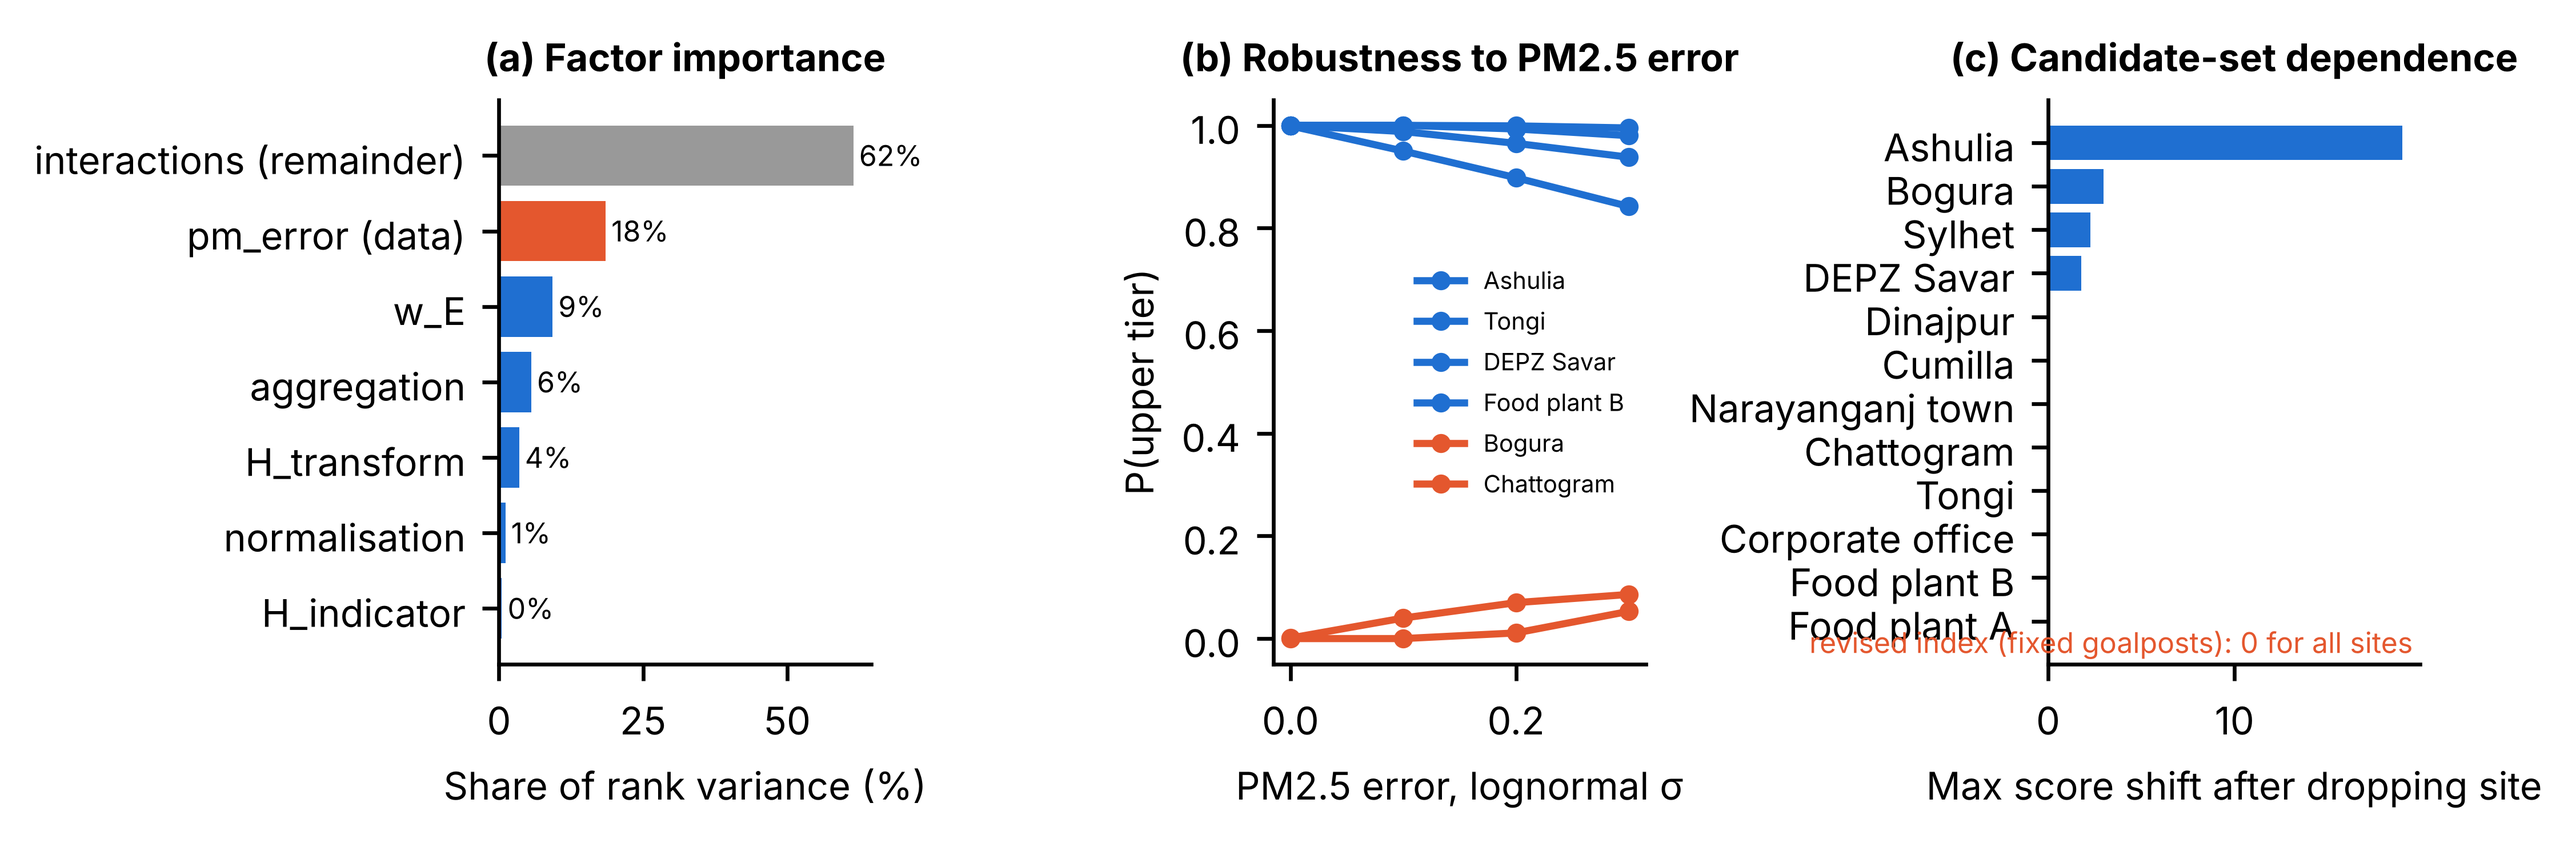
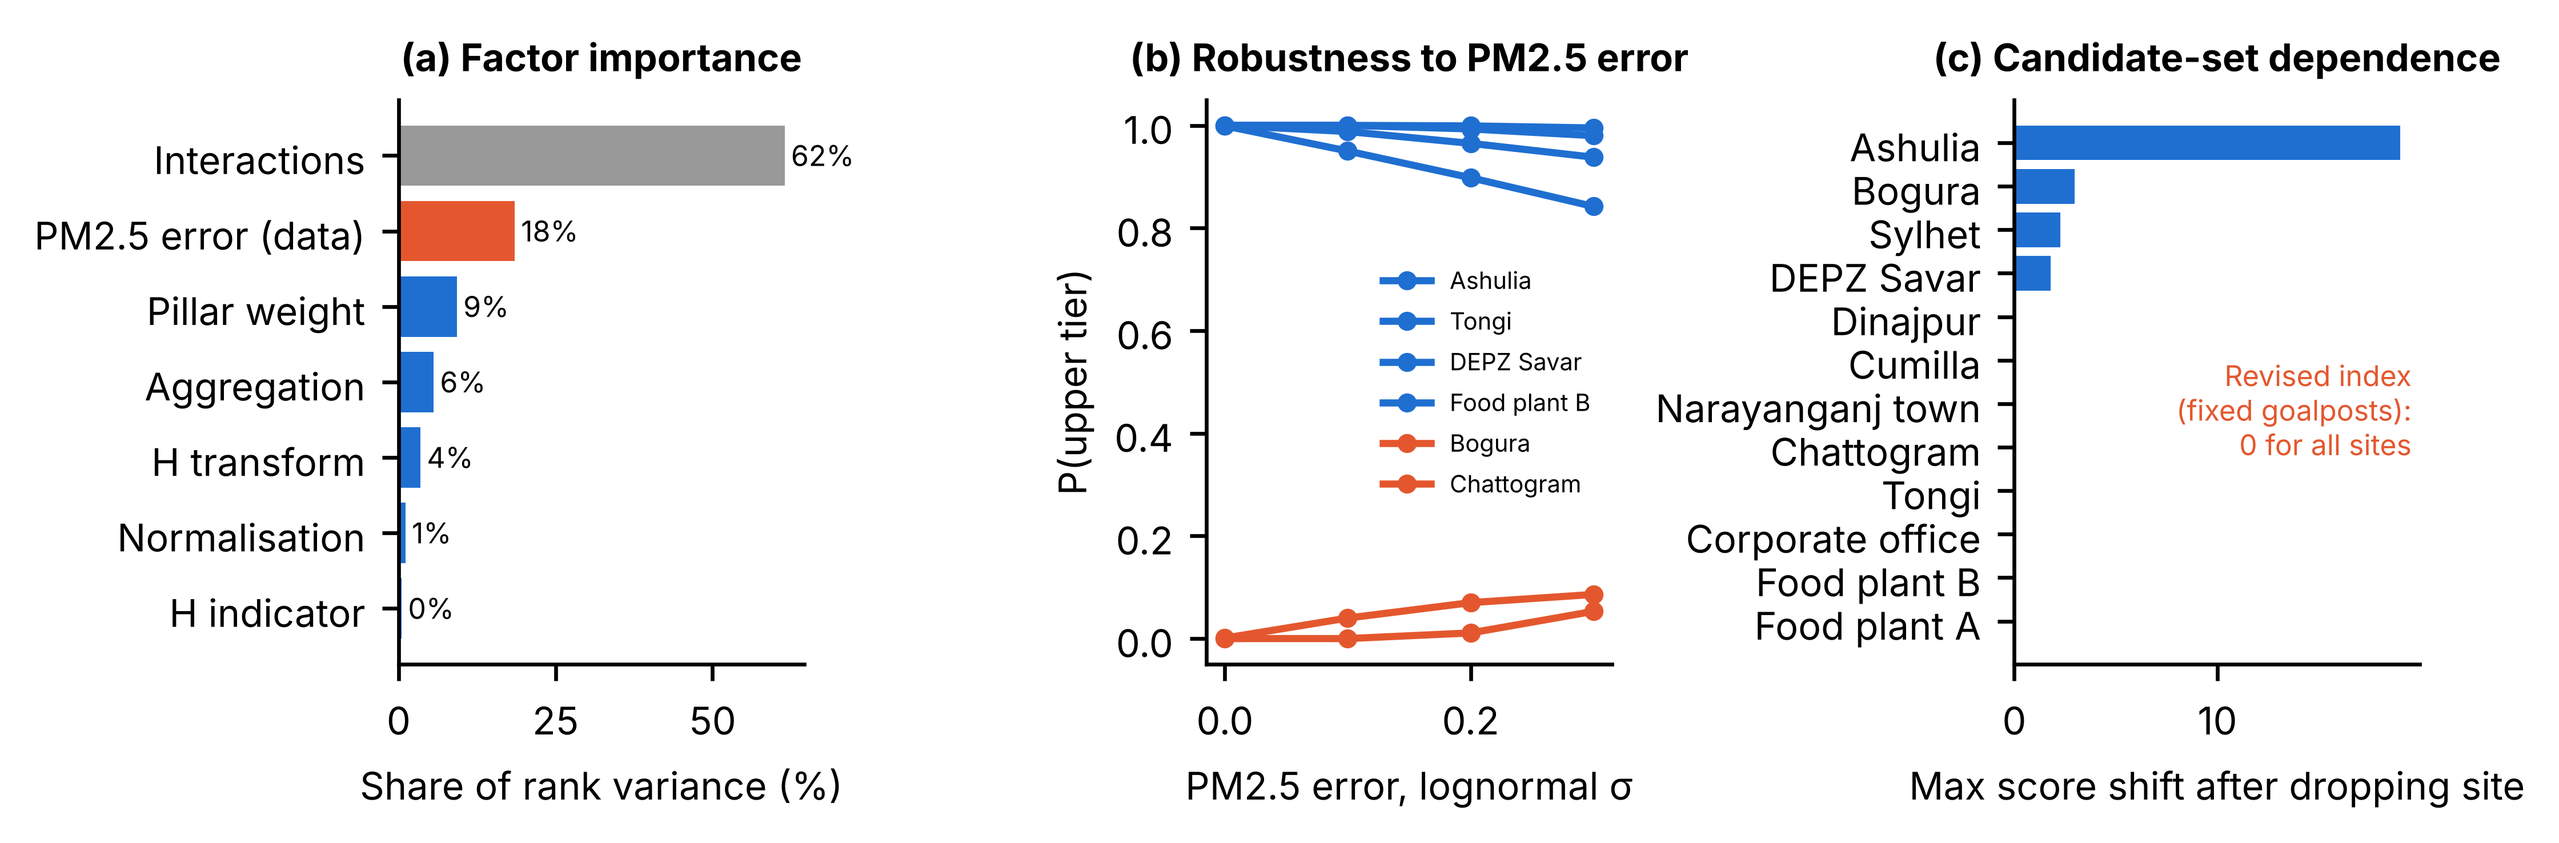
Readable factor labels in Fig. 7

diff --git a/scripts/figs.py b/scripts/figs.py
@@ -116,13 +116,15 @@ ax.legend(fontsize=6, loc="upper center", bbox_to_anchor=(0.5, 1.12), ncol=2, fr
 save(fig, "fig6_rank_intervals.png")
 
 # Fig. 7 sensitivity diagnostics
-sh = pd.read_csv(AUD / "first_order_shares.csv", index_col=0).first_order_share.sort_values()
+NICE = {"w_E": "Pillar weight", "H_indicator": "H indicator", "H_transform": "H transform", "normalisation": "Normalisation",
+        "aggregation": "Aggregation", "pm_error (data)": "PM2.5 error (data)", "interactions (remainder)": "Interactions"}
+sh = pd.read_csv(AUD / "first_order_shares.csv", index_col=0).first_order_share.rename(index=NICE).sort_values()
 sw = pd.read_csv(AUD / "pm_error_sweep_p_upper.csv", index_col=0)
 sw.index = [LABELS[f"S{i:02d}"] for i in range(1, 13)]          # same row order as sites.csv
 loo = pd.read_csv(AUD / "leave_one_out.csv")
 loo["label"] = [LABELS[f"S{i:02d}"] for i in range(1, 13)]
 fig, ax = plt.subplots(1, 3, figsize=(7.2, 2.5))
-ax[0].barh(sh.index, 100 * sh.values, color=[ORANGE if "pm" in i else GREY if "inter" in i else BLUE for i in sh.index])
+ax[0].barh(sh.index, 100 * sh.values, color=[ORANGE if "PM2.5" in i else GREY if "Inter" in i else BLUE for i in sh.index])
 for yy, v in enumerate(sh.values):
     ax[0].text(100 * v + 1, yy, f"{100 * v:.0f}%", va="center", fontsize=6)
 ax[0].set_xlabel("Share of rank variance (%)")
@@ -138,7 +140,7 @@ lo = loo.sort_values("original_max_shift")
 ax[2].barh(lo.label, lo.original_max_shift, color=BLUE)
 ax[2].set_xlabel("Max score shift after dropping site")
 ax[2].set_title("(c) Candidate-set dependence")
-ax[2].text(0.98, 0.02, "revised index (fixed goalposts): 0 for all sites", transform=ax[2].transAxes,
-           ha="right", fontsize=6, color=ORANGE)
+ax[2].text(0.98, 0.45, "Revised index\n(fixed goalposts):\n0 for all sites", transform=ax[2].transAxes,
+           ha="right", va="center", fontsize=6, color=ORANGE)
 save(fig, "fig7_sensitivity.png")
 print("written:", sorted(p.name for p in FIG.glob("fig*.png")))
